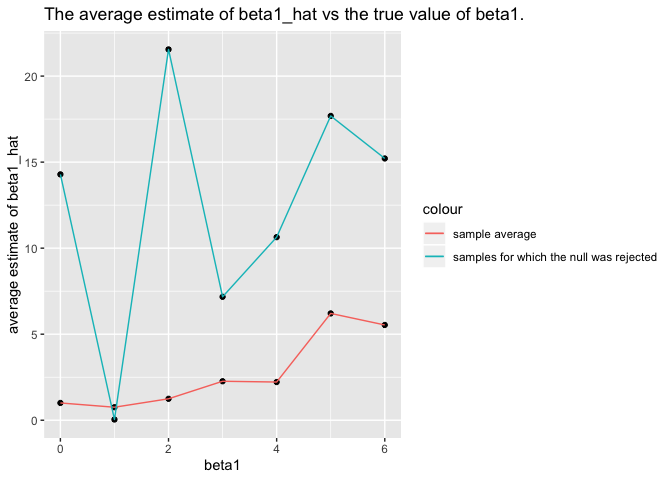
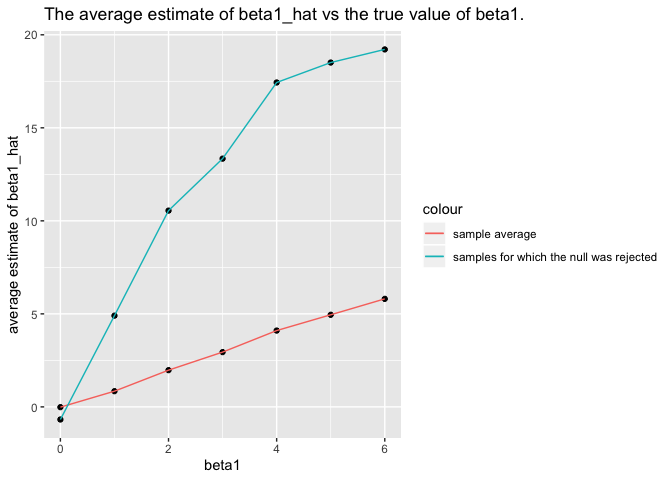
replot using 10000 times rerun

diff --git a/p8105_hw5_jf3285.md b/p8105_hw5_jf3285.md
@@ -335,14 +335,14 @@ sim_regression = function(n = 30, beta0 = 2, sigma_sq = 50, beta1) {
 sim_results = 
   tibble(beta1 = c(0, 1, 2, 3, 4, 5, 6)) %>% 
   mutate(
-    output_lists = map(.x = beta1, ~rerun(100, sim_regression(beta1 = .x))),
+    output_lists = map(.x = beta1, ~rerun(10000, sim_regression(beta1 = .x))),
     estimate_dfs = map(output_lists, bind_rows)) %>% 
   select(-output_lists) %>% 
   unnest(estimate_dfs)
 sim_results
 ```
 
-    ## # A tibble: 700 x 3
+    ## # A tibble: 70,000 x 3
     ##    beta1 beta1_hat  p_value
     ##    <dbl>     <dbl>    <dbl>
     ##  1     0     14.3  0.207   
@@ -355,7 +355,7 @@ sim_results
     ##  8     0      2.34 0.769   
     ##  9     0      4.07 0.670   
     ## 10     0     17.0  0.134   
-    ## # … with 690 more rows
+    ## # … with 69,990 more rows
 
 ``` r
 reject_proportion = 
@@ -364,21 +364,7 @@ reject_proportion =
   summarize(reject = length(which(p_value < 0.05)),
             total = n()) %>% 
   mutate(proportion = reject/total)
-reject_proportion
-```
 
-    ## # A tibble: 7 x 4
-    ##   beta1 reject total proportion
-    ##   <dbl>  <int> <int>      <dbl>
-    ## 1     0      4   100       0.04
-    ## 2     1      7   100       0.07
-    ## 3     2      3   100       0.03
-    ## 4     3      3   100       0.03
-    ## 5     4      9   100       0.09
-    ## 6     5     12   100       0.12
-    ## 7     6     10   100       0.1
-
-``` r
 ggplot(reject_proportion, aes(x = beta1, y = proportion)) + 
   geom_point() +
   geom_line() +
